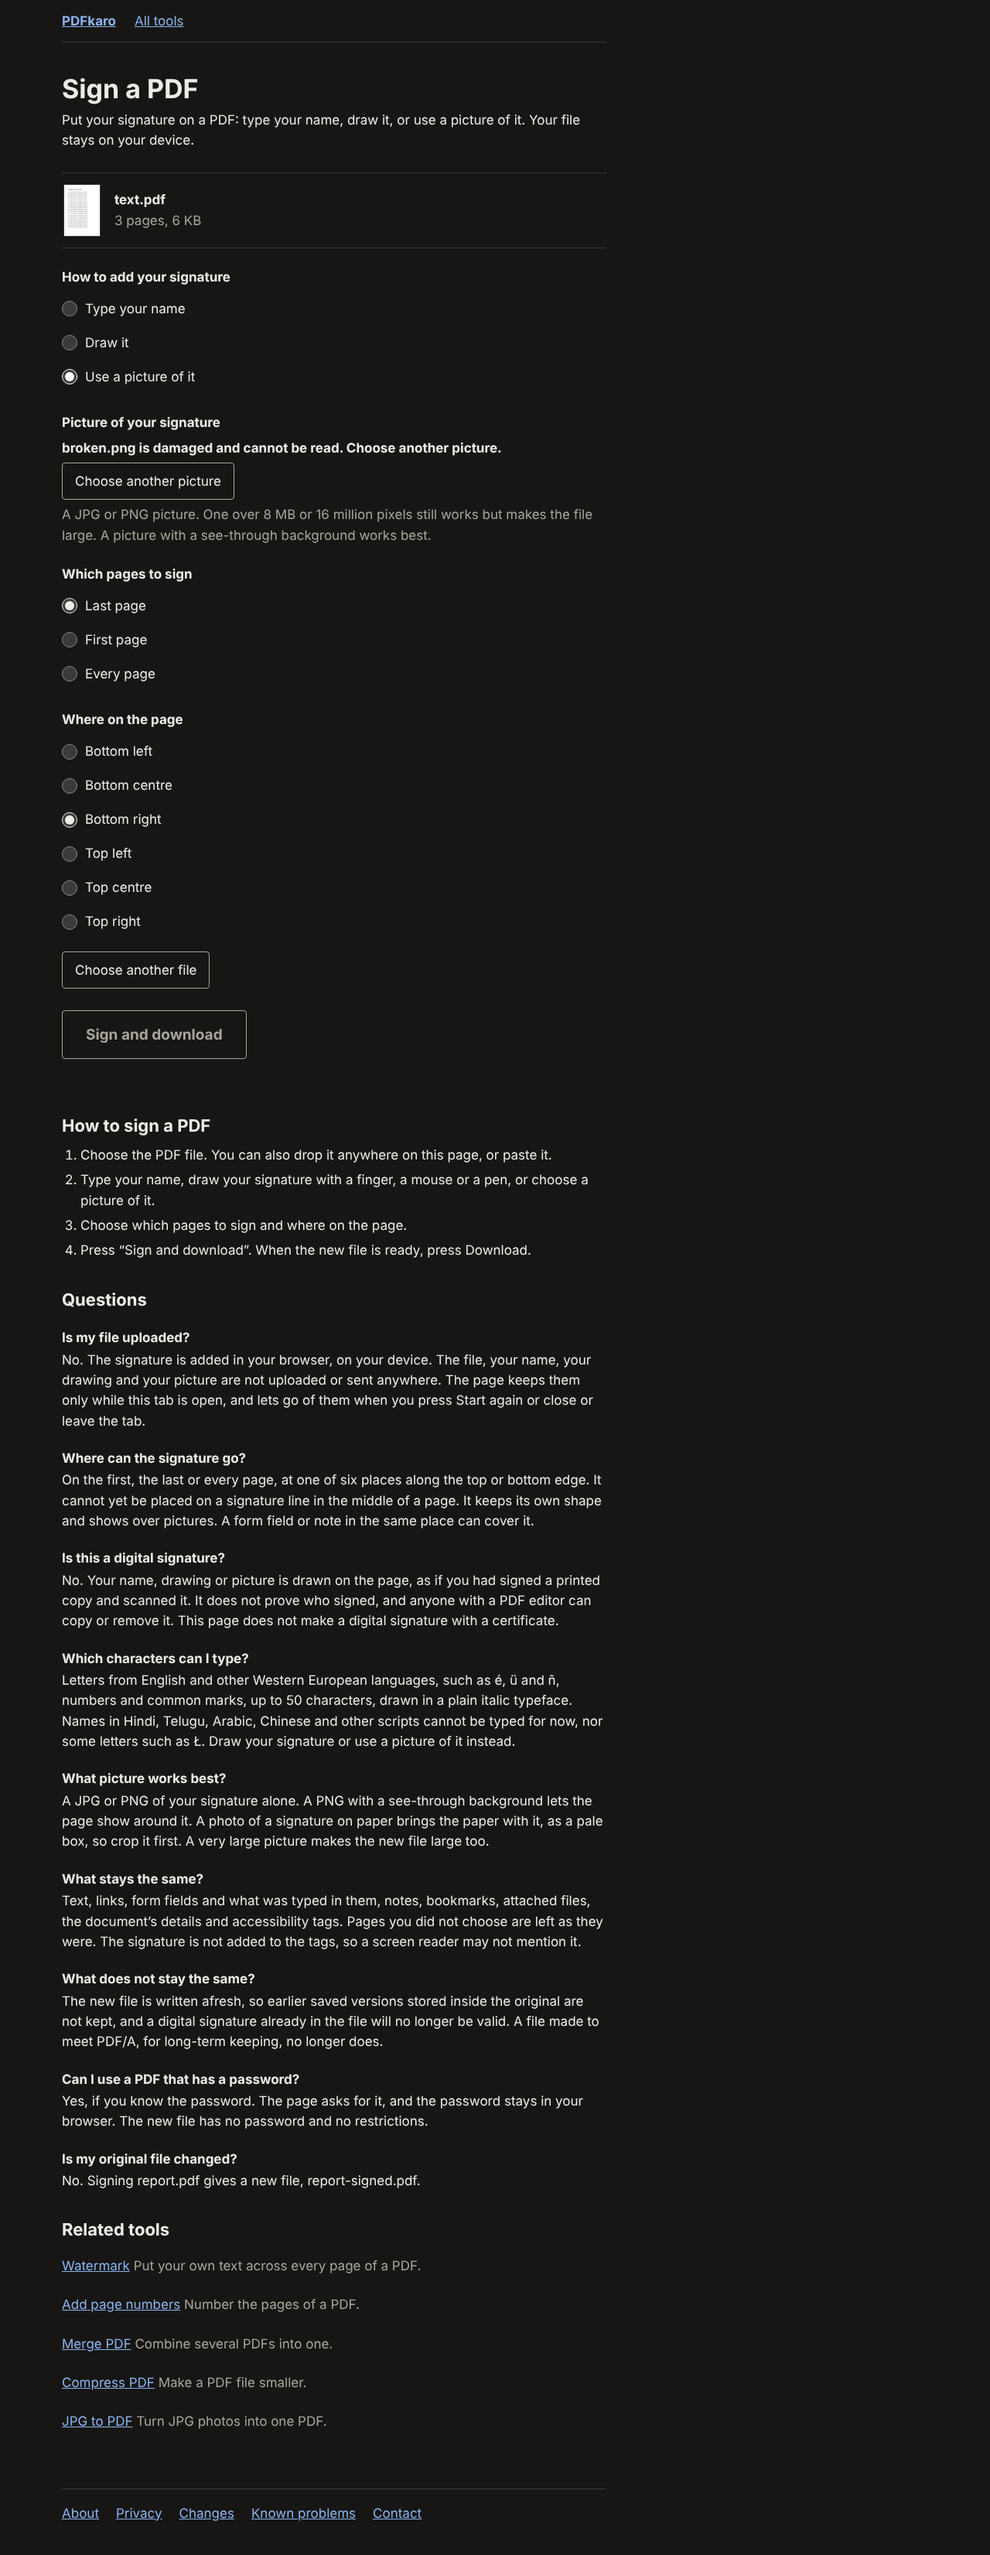
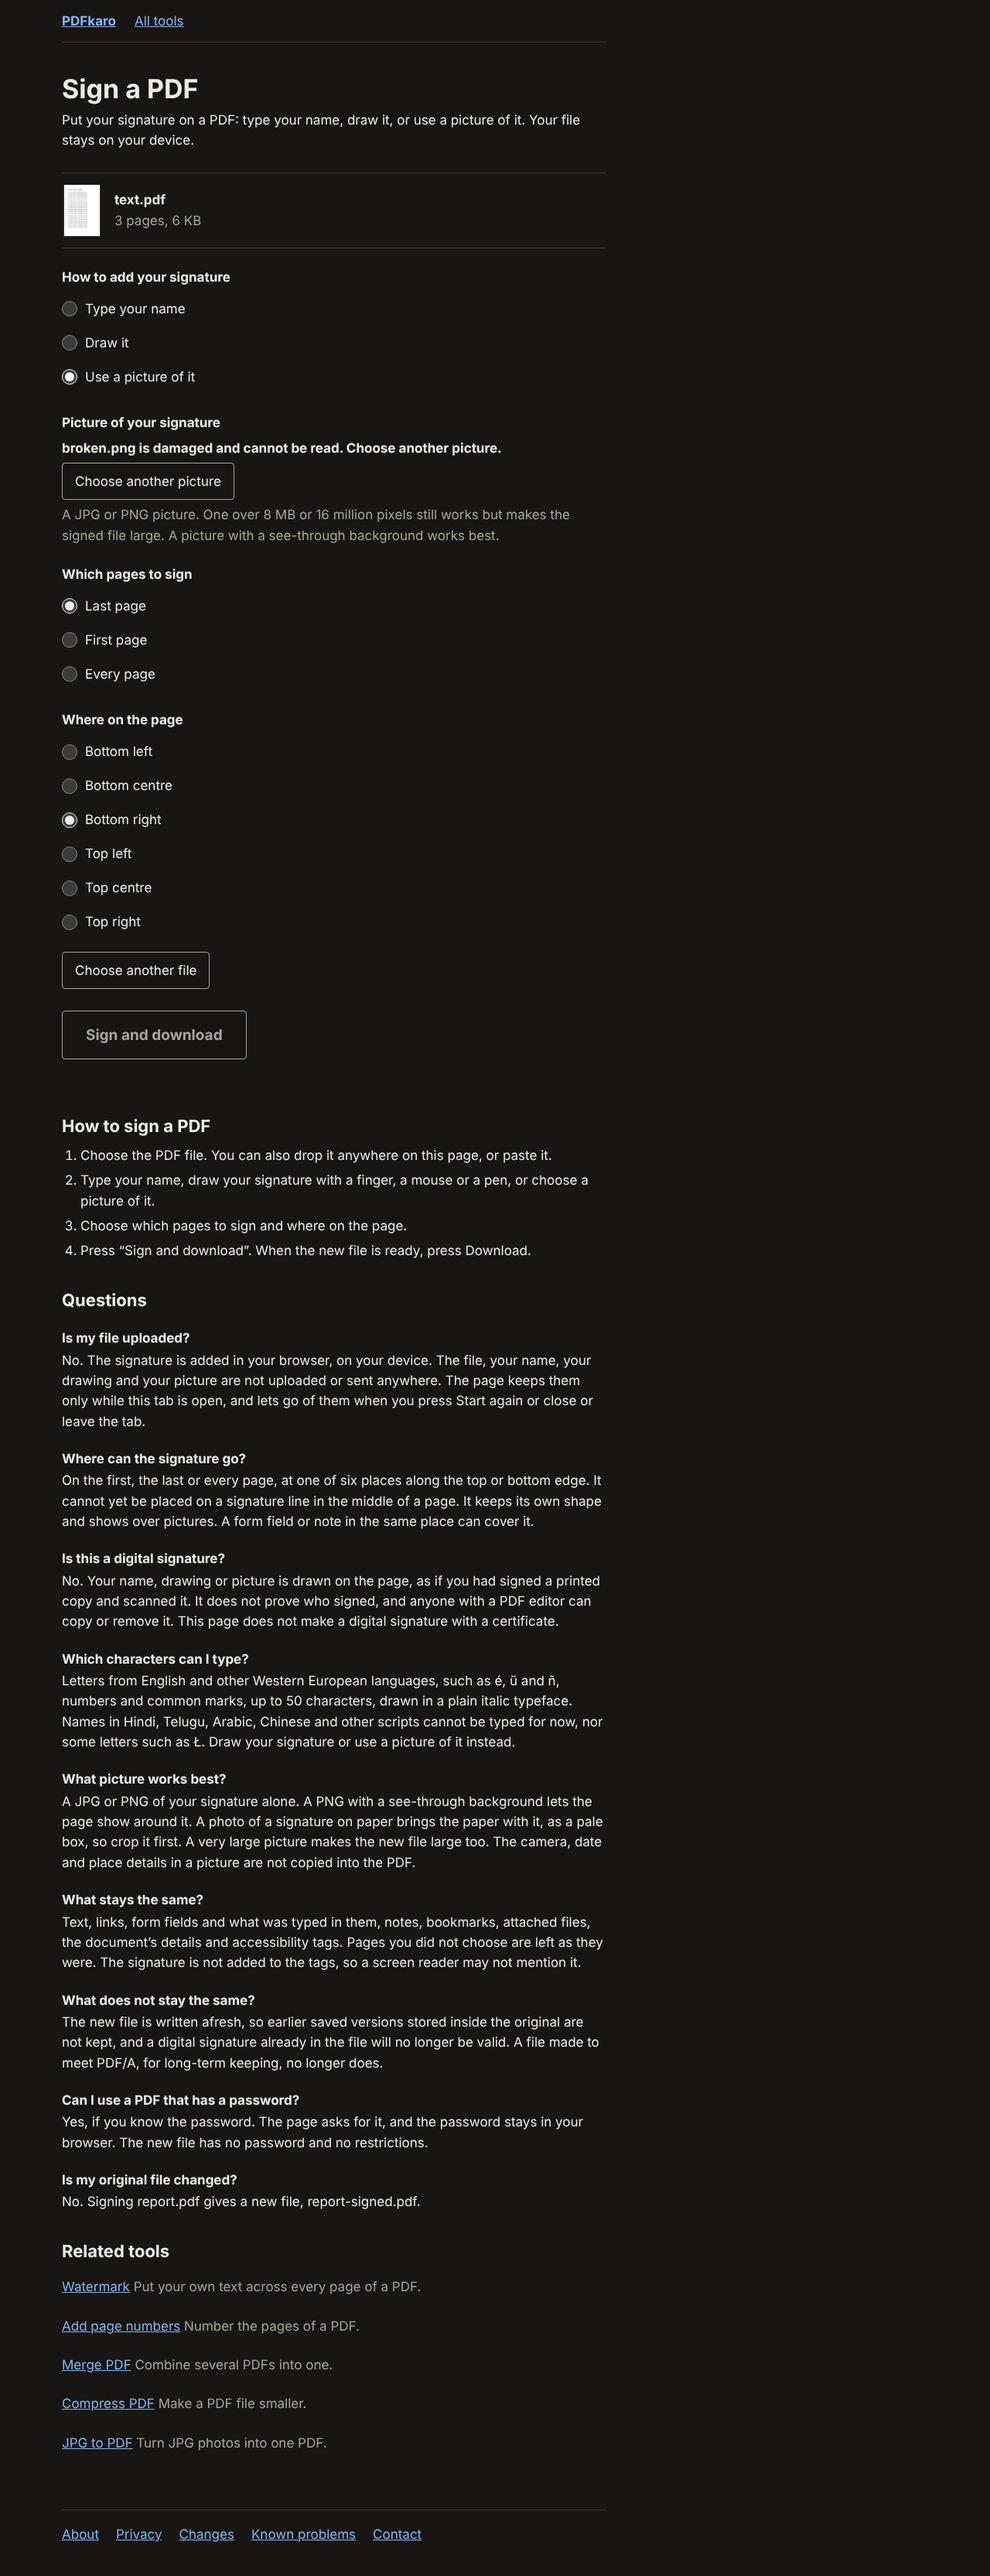
Sign PDF: clearer advice and picture hint, pad CSS fallback removed, picture details sentence, measurements and screenshots
Claude-Session: https://claude.ai/code/session_01Ht5n4xeEVAutobXrc7qGtN

Changed region(s): [[0.0625, 0.4366, 0.625, 0.9355], [0.0625, 0.0312, 0.5, 0.4054]]

diff --git a/tests/unit/components.test.tsx b/tests/unit/components.test.tsx
@@ -525,8 +525,7 @@ describe('DrawingPad, a drawing of a test entry', () => {
       'user-select: none;',
       '-webkit-user-select: none;',
       '-webkit-touch-callout: none;',
-      // The column's width, or 150% of the screen's height, so at 5 to 2 it is never more than 60% of it (a phone turned sideways).
-      'width: min(100%, 150vh);',
+      // The column's width, or 150% of the screen's small height, so at 5 to 2 it is never more than 60% of it (a phone turned sideways).
       'width: min(100%, 150svh);',
       'aspect-ratio: 5 / 2;',
       'border: 1px solid var(--control);',
@@ -570,7 +569,7 @@ describe('PictureField, a picture of a test entry', () => {
     label: 'Picture of your signature',
     pickLabel: 'Choose a picture',
     againLabel: 'Choose another picture',
-    hint: 'A JPG or PNG picture. One over 8 MB or 16 million pixels still works but makes the file large.',
+    hint: 'A JPG or PNG picture. One over 8 MB or 16 million pixels still works but makes the signed file large.',
     acceptsName: 'a JPG or PNG picture',
     emptySentence: 'Choose a picture of your signature first.',
   };
@@ -713,7 +712,7 @@ describe("Sign PDF's entry, drawn by ChoiceGroup, TextField, DrawingPad and Pict
     expect(picturesToSend(options, { source: 'picture' }, ready, held)).toEqual({ picture: file });
     expect(picturesToSend(options, { source: 'type' }, ready, held)).toEqual({});
     // A refused letter names it, followed by the tool's way forward.
-    expect(optionsHold('sign-pdf', options, { name: 'Łukasz' })?.sentence).toBe('Ł cannot be used. To sign in another script, choose “Draw it” or “Use a picture of it” above.');
+    expect(optionsHold('sign-pdf', options, { name: 'Łukasz' })?.sentence).toBe('Ł cannot be used. To use other letters, choose “Draw it” or “Use a picture of it” above.');
   });
 
   it('the pad: "Draw your signature", its hint naming typing as the keyboard way, and "Clear the drawing"; the picture field: its label, button and hint', () => {
@@ -725,7 +724,7 @@ describe("Sign PDF's entry, drawn by ChoiceGroup, TextField, DrawingPad and Pict
     expect(field).toContain('>Picture of your signature</p>');
     expect(field).toContain('Choose a picture');
     expect(field).toContain('accept="image/jpeg,image/png"');
-    expect(field).toContain('>A JPG or PNG picture. One over 8 MB or 16 million pixels still works but makes the file large. A picture with a see-through background works best.</p>');
+    expect(field).toContain('>A JPG or PNG picture. One over 8 MB or 16 million pixels still works but makes the signed file large. A picture with a see-through background works best.</p>');
     expect(field).not.toContain('<img');
   });
 });

diff --git a/src/tools/registry.ts b/src/tools/registry.ts
@@ -86,7 +86,7 @@ export type TextOption = {
   refusedSentence?: string;
   /**
    * Said after every refused-characters sentence, whether letters are named or not: the tool's way forward for a
-   * text in another script. Sign PDF: "To sign in another script, choose “Draw it” or “Use a picture of it” above."
+   * text in another script. Sign PDF: "To use other letters, choose “Draw it” or “Use a picture of it” above."
    * Left out, the sentence stands alone (Watermark).
    */
   charactersAdvice?: string;
@@ -915,7 +915,7 @@ export const tools: Tool[] = [
           when: { key: 'source', value: 'type' },
           label: 'Your name',
           hint: 'Up to 50 characters, on one line. Use letters from English and other Western European languages, numbers and common marks.',
-          charactersAdvice: 'To sign in another script, choose “Draw it” or “Use a picture of it” above.',
+          charactersAdvice: 'To use other letters, choose “Draw it” or “Use a picture of it” above.',
           emptySentence: 'Type your name first.',
           refusedSentence: 'Your name could not be used. Check it and try again.',
         },
@@ -936,7 +936,7 @@ export const tools: Tool[] = [
           pickLabel: 'Choose a picture',
           againLabel: 'Choose another picture',
           acceptsName: 'a JPG or PNG picture',
-          hint: 'A JPG or PNG picture. One over 8 MB or 16 million pixels still works but makes the file large. A picture with a see-through background works best.',
+          hint: 'A JPG or PNG picture. One over 8 MB or 16 million pixels still works but makes the signed file large. A picture with a see-through background works best.',
           largeAdvice:
             'A picture this large makes the signed file larger, and a phone may run out of memory. Crop it to the signature, or save a smaller copy. You can still go ahead.',
           tooLargeAdvice: 'Crop it to the signature, or save a smaller copy.',

diff --git a/tests/unit/options.test.ts b/tests/unit/options.test.ts
@@ -424,7 +424,7 @@ describe('a text in the widget', () => {
 
   it("says the tool's charactersAdvice after every refused-characters sentence, named or not, and never after another problem", () => {
     const name = tools.find((tool) => tool.id === 'sign-pdf')!.widget!.options!.find((option): option is TextOption => option.kind === 'text')!;
-    const advice = 'To sign in another script, choose “Draw it” or “Use a picture of it” above.';
+    const advice = 'To use other letters, choose “Draw it” or “Use a picture of it” above.';
     expect(name.charactersAdvice).toBe(advice);
     expect(textSentence(name, rule, { kind: 'characters', refused: ['स', 'ी', 'त', 'ा'] })).toBe(`Some characters cannot be used. ${advice}`);
     expect(textSentence(name, rule, { kind: 'characters', refused: ['Ł'] })).toBe(`Ł cannot be used. ${advice}`);
@@ -785,7 +785,7 @@ describe('a picture in the widget', () => {
     label: 'Picture of your signature',
     pickLabel: 'Choose a picture',
     againLabel: 'Choose another picture',
-    hint: 'A JPG or PNG picture. One over 8 MB or 16 million pixels still works but makes the file large.',
+    hint: 'A JPG or PNG picture. One over 8 MB or 16 million pixels still works but makes the signed file large.',
     acceptsName: 'a JPG or PNG picture',
     emptySentence: 'Choose a picture of your signature first.',
   };

diff --git a/tests/e2e/sign-pdf.spec.ts b/tests/e2e/sign-pdf.spec.ts
@@ -25,9 +25,9 @@ const pictureFile = (name: string) => join(here, '../fixtures/pictures', name);
 const password = 'open-sesame';
 const typed = 'Jq5name Vx2sig';
 const hint = 'Up to 50 characters, on one line. Use letters from English and other Western European languages, numbers and common marks.';
-const advice = 'To sign in another script, choose “Draw it” or “Use a picture of it” above.';
+const advice = 'To use other letters, choose “Draw it” or “Use a picture of it” above.';
 const padHint = 'Use a finger, a mouse or a pen in the box. To use a keyboard, choose “Type your name” above.';
-const pictureHint = 'A JPG or PNG picture. One over 8 MB or 16 million pixels still works but makes the file large. A picture with a see-through background works best.';
+const pictureHint = 'A JPG or PNG picture. One over 8 MB or 16 million pixels still works but makes the signed file large. A picture with a see-through background works best.';
 const outputLimitSentence = 'The new file would be far larger than expected, so it was not made. The file may be damaged. Try another copy of it.';
 
 const picker = (page: Page) => page.locator('input[type=file]').first();

diff --git a/src/components/DrawingPad/DrawingPad.module.css b/src/components/DrawingPad/DrawingPad.module.css
@@ -12,12 +12,10 @@
    needs no colour of its own. It takes touch for itself: a finger drawing in it never scrolls or
    zooms the page, selects text or opens the long-press menu. On a screen wider than tall and short,
    such as a phone turned sideways, it is at most 60% of the screen's height, still 5 to 2, so there
-   is room above or below it to scroll; the second width is for browsers that know the small
-   viewport unit, which leaves out the browser's own bars. */
+   is room above or below it to scroll. The small viewport unit leaves out the browser's own bars. */
 .box {
   display: block;
   box-sizing: border-box;
-  width: min(100%, 150vh);
   width: min(100%, 150svh);
   aspect-ratio: 5 / 2;
   border: 1px solid var(--control);

diff --git a/tests/unit/registry.test.ts b/tests/unit/registry.test.ts
@@ -940,7 +940,7 @@ describe('pictures', () => {
     label: 'Picture of your signature',
     pickLabel: 'Choose a picture',
     againLabel: 'Choose another picture',
-    hint: 'A JPG or PNG picture. One over 8 MB or 16 million pixels still works but makes the file large.',
+    hint: 'A JPG or PNG picture. One over 8 MB or 16 million pixels still works but makes the signed file large.',
     acceptsName: 'a JPG or PNG picture',
     emptySentence: 'Choose a picture of your signature first.',
   };

diff --git a/tests/fixtures/README.md b/tests/fixtures/README.md
@@ -603,9 +603,9 @@ Measured as for Watermark: in Node, each case in a process of its own under the 
 | File | Case | In | Out | Node: time (to the write, write and check) | Node: peak | Node: update | Chromium: time | Chromium: peak over baseline |
 | --- | --- | --- | --- | --- | --- | --- | --- | --- |
 | `pages-500.pdf` | Typed, last | 0.20 MB | 102,380 bytes, 869 more than the plain copy with object streams | 0.3 s (0.2, 0.1) | 0.16 GB | | 0.8 s | 0.03 GB |
-| `pages-500.pdf` | 8 MB picture, every | 0.20 MB | 8.7 MB | 1.9 s (1.6, 0.4) (0.44) | 0.34 GB (0.17) | 11.6 MB | 2.3 s (0.9) | 0.20 GB (0.04) |
+| `pages-500.pdf` | 8 MB picture, every | 0.20 MB | 8.7 MB | 2.2 s (1.7, 0.5) (0.44) | 0.35 GB (0.17) | 11.6 MB | 2.3 s (0.9) | 0.13 GB (0.04) |
 | 120,000 pages (`make-many-pages.mjs`) | Typed, last | 16.6 MB | 1,131,624 bytes, 899 more than the plain copy with object streams | 18.8 s (13.9, 4.9) | 0.63 GB | 1,166 bytes | 12.9 s | 0.36 GB |
-| 120,000 pages | 8 MB picture, every | 16.6 MB | 39.4 MB (61.1) | 46.9 s (27.8, 19.1) (64.6) | 1.08 GB (1.05) | 69.1 MB | 35.6 s (45.2) | 0.83 GB (0.81) |
+| 120,000 pages | 8 MB picture, every | 16.6 MB | 39.4 MB (61.1) | 51.8 s (32.8, 18.9) (64.6) | 1.04 to 1.10 GB (1.05) | 69.1 MB | 34.6 s (45.2) | 0.83 GB (0.81) |
 | `make-large.mjs`'s file | Typed, last | 110.1 MB | 110,124,853 bytes, 799 more than the plain copy with object streams | 1.5 s (1.0, 0.5) | 1.16 GB | | 1.9 s | 1.27 GB |
 | `make-large.mjs`'s file | 8 MB picture, every | 110.1 MB | 118.6 MB | 3.0 s (2.2, 0.8) (1.8) | 1.23 GB (1.16) | | 3.4 s (2.4) | 1.00 GB (1.32) |
 
@@ -620,6 +620,8 @@ The 16-million-pixel pictures, 4,000 by 4,000 pixels, as photos of a signature o
 | 2,100 pages | Grain, every | Not made: `PictureTooLarge` | 4.5 s | 0.38 GB | none written | | |
 | 120,000 pages | Grain, every | 51.1 MB | 55.2 s | 1.20 GB | 81.0 MB | 47.6 s | 0.93 GB |
 
-On the last page, each file grows by under 1 KB over the plain copy written with object streams, as the design asks. Every page stays inside the size budget; the update carries the picture once, as base64. Two every-page figures are more than 20% worse than Watermark's, both on small and medium files: `pages-500.pdf` (1.9 s against 0.44 s in Node, 2.3 s against 0.9 s in Chromium, and 0.34 GB against 0.17 GB) and `make-large.mjs`'s file (3.0 s against 1.8 s, 3.4 s against 2.4 s). The difference is reading the 8 MB picture once: pdf-lib decodes the PNG and compresses its pixels again (about 1.4 s in Node for this picture), which no Watermark job does; the pages themselves take what Watermark's take. On the 120,000-page file Sign PDF is faster than Watermark and its file 35% smaller, as each page's layer only places the one shared signature form. A grainy 16-million-pixel photo compresses to 21 MB, past the budget of any file under about 2.5 MB or a few thousand pages, so the job stops with the picture's own sentence after the picture is read (4 s in Node, 11 s in Chromium, where reading it before the job also takes time), and never writes the file; on a long file it fits and is written once.
+The two 8 MB picture, every page rows were measured again after the stage 2 review, once a large stream was keyed by its bytes rather than its text (21 Nov 2026). The machine ran slower that day: the code before the change, measured beside it, took 2.3 s and 0.33 GB on `pages-500.pdf`, and 56.6 and 59.4 s, 1.11 and 1.07 GB on the 120,000-page file, against 2.2 s and 0.35 GB, and 51.8 and 57.7 s, 1.10 and 1.04 GB after it, so the change saves a few seconds on the long file and leaves the peak about where it was; the table gives the faster run and both peaks. Output and update sizes are unchanged to the byte.
+
+On the last page, each file grows by under 1 KB over the plain copy written with object streams, as the design asks. Every page stays inside the size budget; the update carries the picture once, as base64. Two every-page figures are more than 20% worse than Watermark's, both on small and medium files: `pages-500.pdf` (2.2 s against 0.44 s in Node, 2.3 s against 0.9 s in Chromium, and 0.35 GB against 0.17 GB) and `make-large.mjs`'s file (3.0 s against 1.8 s, 3.4 s against 2.4 s). The difference is reading the 8 MB picture once: pdf-lib decodes the PNG and compresses its pixels again (about 1.4 s in Node for this picture), which no Watermark job does; the pages themselves take what Watermark's take. On the 120,000-page file Sign PDF is faster than Watermark and its file 35% smaller, as each page's layer only places the one shared signature form. A grainy 16-million-pixel photo compresses to 21 MB, past the budget of any file under about 2.5 MB or a few thousand pages, so the job stops with the picture's own sentence after the picture is read (4 s in Node, 11 s in Chromium, where reading it before the job also takes time), and never writes the file; on a long file it fits and is written once.
 
 The multilingual file is still missing; Sign PDF leaves existing text alone, so it would change nothing there.

diff --git a/src/content/tools/sign-pdf.md b/src/content/tools/sign-pdf.md
@@ -29,7 +29,7 @@ Letters from English and other Western European languages, such as é, ü and ñ
 
 ### What picture works best?
 
-A JPG or PNG of your signature alone. A PNG with a see-through background lets the page show around it. A photo of a signature on paper brings the paper with it, as a pale box, so crop it first. A very large picture makes the new file large too.
+A JPG or PNG of your signature alone. A PNG with a see-through background lets the page show around it. A photo of a signature on paper brings the paper with it, as a pale box, so crop it first. A very large picture makes the new file large too. The camera, date and place details in a picture are not copied into the PDF.
 
 ### What stays the same?
 
